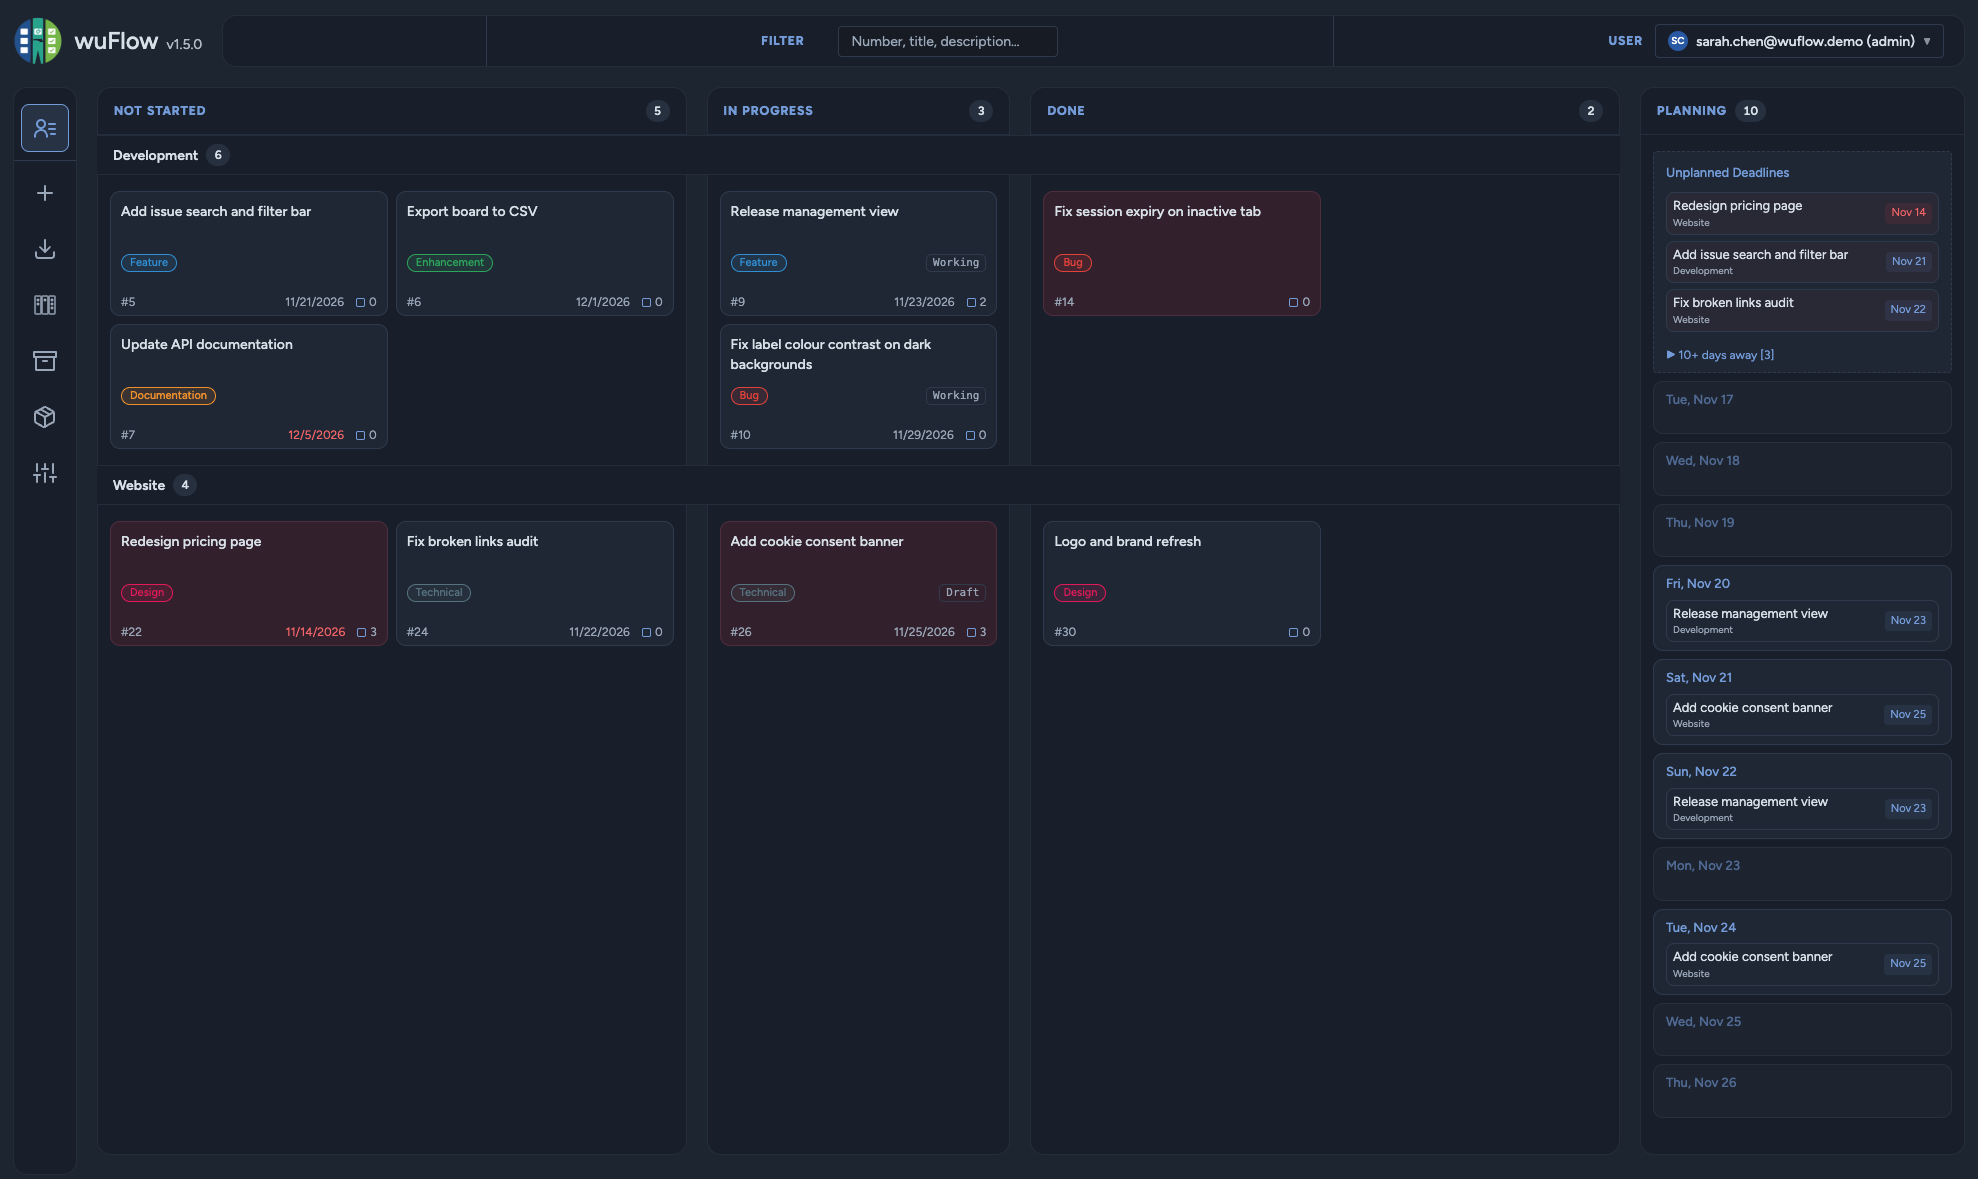
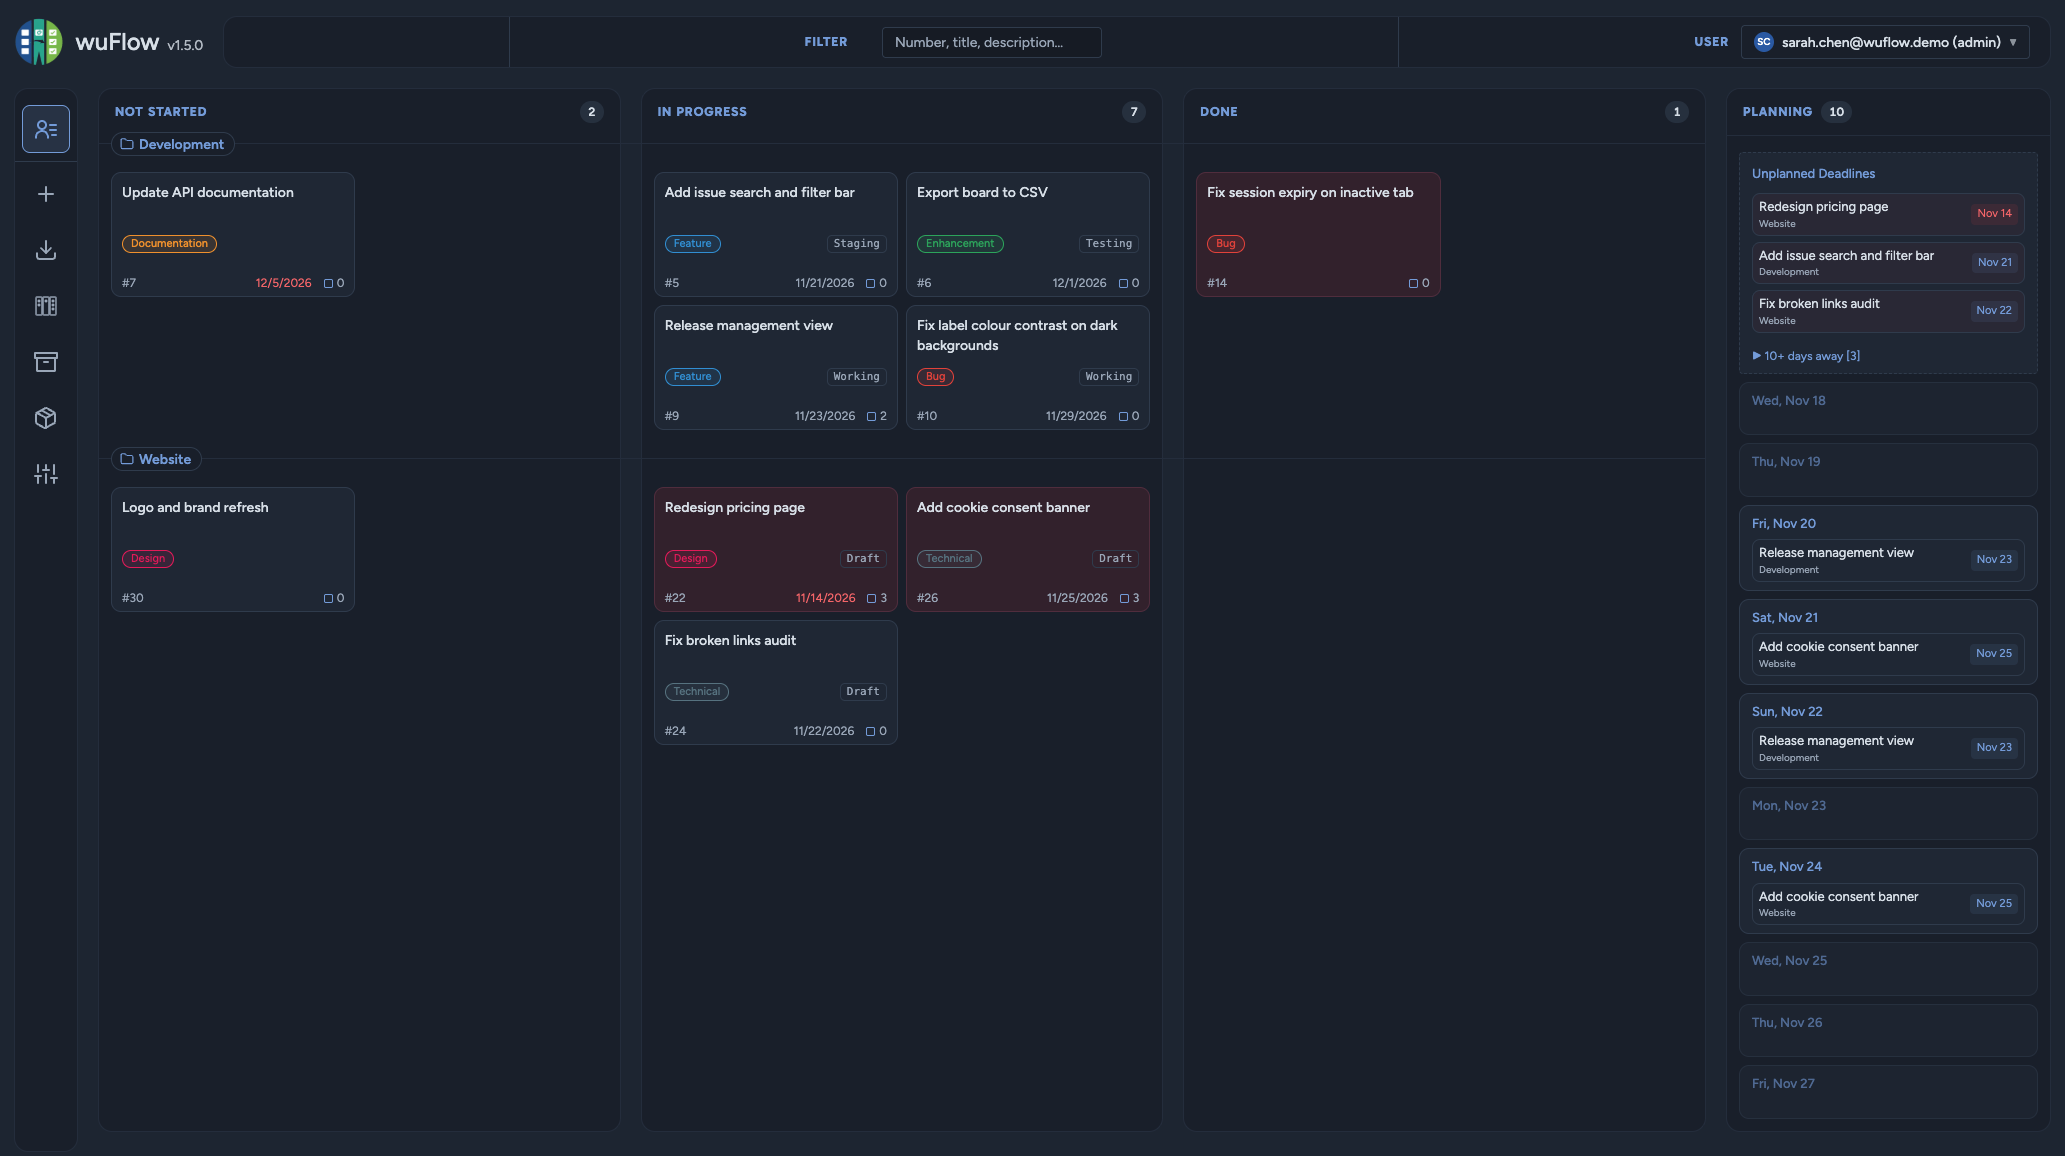
feat(my-work): Added priority filter

diff --git a/playwright/my_work.spec.ts b/playwright/my_work.spec.ts
@@ -48,7 +48,7 @@ test.describe('My Work', () => {
 
     const t = (name: string) => `${name} ${suffix}`;
     await createIssueViaAPI(request, DEFAULT_PROJECT_ID, t('A todo'), { status: 'Todo', assignee_id: me.id });
-    await createIssueViaAPI(request, DEFAULT_PROJECT_ID, t('A working'), { status: 'Stage2', assignee_id: me.id });
+    await createIssueViaAPI(request, DEFAULT_PROJECT_ID, t('A working'), { status: 'Stage2', assignee_id: me.id, priority: 'High' });
     await createIssueViaAPI(request, DEFAULT_PROJECT_ID, t('A other'), { status: 'Todo', assignee_id: other.id });
     await createIssueViaAPI(request, DEFAULT_PROJECT_ID, t('A open'), { status: 'Open', assignee_id: me.id });
     const bTestingId = await createIssueViaAPI(request, projectBId, t('B testing'), {
@@ -62,10 +62,11 @@ test.describe('My Work', () => {
     await expect(page.locator('#project-selector-text')).not.toHaveText(projectB);
 
     await navigateTo(page, 'my-work');
-    // Toolbar: only the issue search, no project selector and no project filters.
+    // Toolbar: only the priority filter and the issue search, no project selector and no project filters.
     await expect(page.locator('#project-selector-container')).toBeHidden();
+    await expect(page.locator('#priority-filter-wrapper')).toBeVisible();
     await expect(page.locator('#search-filter-wrapper')).toBeVisible();
-    for (const id of ['#label-filter-wrapper', '#priority-filter-wrapper', '#user-filter-wrapper', '#release-filter-wrapper', '#release-search-wrapper']) {
+    for (const id of ['#label-filter-wrapper', '#user-filter-wrapper', '#release-filter-wrapper', '#release-search-wrapper']) {
       await expect(page.locator(id)).toBeHidden();
     }
 
@@ -92,6 +93,18 @@ test.describe('My Work', () => {
     await expect(page.locator('#my-work-grid .card')).toHaveCount(1);
     await expect(card(page, 'done', t('B done'))).toBeVisible();
     await expect(page.locator('#my-work-grid .column-header[data-category="done"] .count')).toHaveText(/^1\/\d+$/);
+    await page.fill('#search-input', '');
+    await expect(card(page, 'notStarted', t('A todo'))).toBeVisible();
+
+    // The priority filter, combined with the search for this test's issues: only my High issue,
+    // the lane of project B disappears.
+    await page.fill('#search-input', suffix);
+    await page.click('#priority-filter-btn');
+    await page.click('#priority-filter-options .custom-option:has-text("High")');
+    await expect(page.locator('#my-work-grid .card')).toHaveCount(1);
+    await expect(card(page, 'inProgress', t('A working'))).toBeVisible();
+    await expect(laneNames.filter({ hasText: projectB })).toHaveCount(0);
+    await page.click('#priority-filter-btn .toolbar-icon-clear');
     await page.fill('#search-input', '');
     await expect(card(page, 'notStarted', t('A todo'))).toBeVisible();
 

diff --git a/static/js/tests/my-work.test.ts b/static/js/tests/my-work.test.ts
@@ -139,9 +139,10 @@ describe('My Work view', () => {
     expect(document.querySelectorAll('.my-work-lane-separator')).toHaveLength(0);
   });
 
-  describe('search', () => {
+  describe('filters', () => {
     afterEach(() => {
       state.filter.search = '';
+      state.filter.priority = null;
       state.filter.labelId = null;
     });
 
@@ -157,6 +158,31 @@ describe('My Work view', () => {
       expect(byId('my-work-planning-count').textContent).toBe('1/1');
     });
 
+    it('filters cards, lanes and planning by priority and shows "shown/total"', () => {
+      mergeMyIssue(makeIssue({ ...ISSUES[1], priority: 'High' }));
+      state.filter.priority = 'High';
+      renderMyWork();
+
+      expect(cardTitles(byId('my-work-grid'))).toEqual(['Beta testing']);
+      expect([...document.querySelectorAll('.my-work-lane-name')].map(l => l.textContent)).toEqual(['Beta']);
+      expect(document.querySelectorAll('.my-work-lane-separator')).toHaveLength(0);
+      const counts = [...document.querySelectorAll('#my-work-grid .column-header .count')].map(c => c.textContent);
+      expect(counts).toEqual(['0/1', '1/2', '0/1']);
+      // The only planned issue (Alpha working) has normal priority.
+      expect(byId('my-work-planning-list').querySelector('.planning-item')).toBeNull();
+      expect(byId('my-work-planning-count').textContent).toBe('0/1');
+    });
+
+    it('combines the priority filter with the search', () => {
+      mergeMyIssue(makeIssue({ ...ISSUES[1], priority: 'High' }));
+      mergeMyIssue(makeIssue({ ...ISSUES[2], priority: 'High' }));
+      state.filter.priority = 'High'; // leaves out Beta todo
+      state.filter.search = 'beta'; // leaves out Alpha working
+      renderMyWork();
+
+      expect(cardTitles(byId('my-work-grid'))).toEqual(['Beta testing']);
+    });
+
     it('ignores the project filters of the toolbar', () => {
       state.filter.labelId = 99; // a label filter set on a project board
       renderMyWork();
@@ -169,7 +195,15 @@ describe('My Work view', () => {
       state.filter.search = 'no such text';
       renderMyWork();
 
-      expect(bySelector(document, '.my-work-empty').textContent).toBe('No issues match the search.');
+      expect(bySelector(document, '.my-work-empty').textContent).toBe('No issues match the filters.');
+    });
+
+    it('says so when no issue has the chosen priority', () => {
+      state.filter.priority = 'High';
+      renderMyWork();
+
+      expect(bySelector(document, '.my-work-empty').textContent).toBe('No issues match the filters.');
+      expect(document.querySelectorAll('#my-work-grid .column-header .count')[0].textContent).toBe('0/1');
     });
   });
 

diff --git a/static/js/app.ts b/static/js/app.ts
@@ -272,7 +272,7 @@ function setupEventListeners() {
 
 // filters: which filters the toolbar shows while hideFilter is false (see applyFilterVisibility).
 const VIEW_CONFIG = {
-    'my-work':         { el: myWorkView,           nav: navMyWork,          hideSidebar: true,  hideFilter: false, hideProjectSelector: true,  systemSettings: false, filters: 'search',   onEnter: () => refreshApp() },
+    'my-work':         { el: myWorkView,           nav: navMyWork,          hideSidebar: true,  hideFilter: false, hideProjectSelector: true,  systemSettings: false, filters: 'my-work',  onEnter: () => refreshApp() },
     'board':           { el: boardView,           nav: navBoard,           hideSidebar: false, hideFilter: false, hideProjectSelector: false, systemSettings: false, filters: 'issues',   onEnter: () => refreshApp() },
     'backlog':         { el: backlogView,          nav: navBacklog,         hideSidebar: true,  hideFilter: false, hideProjectSelector: false, systemSettings: false, filters: 'issues',   onEnter: () => refreshApp() },
     'archive':         { el: archiveView,          nav: navArchive,         hideSidebar: true,  hideFilter: false, hideProjectSelector: false, systemSettings: false, filters: 'issues',   onEnter: () => refreshApp() },
@@ -282,13 +282,13 @@ const VIEW_CONFIG = {
 } as const;
 
 // issues: label, priority, user, release filter and issue search (project views);
-// releases: owner filter and release search; search: only the issue search (My Work).
-function applyFilterVisibility(filters: 'issues' | 'releases' | 'search') {
+// releases: owner filter and release search; my-work: priority filter and issue search.
+function applyFilterVisibility(filters: 'issues' | 'releases' | 'my-work') {
     const issueFilters = filters === 'issues';
     byId('label-filter-wrapper').classList.toggle('hidden', !issueFilters);
-    byId('priority-filter-wrapper').classList.toggle('hidden', !issueFilters);
+    byId('priority-filter-wrapper').classList.toggle('hidden', filters === 'releases');
     byId('release-filter-wrapper').classList.toggle('hidden', !issueFilters);
-    byId('user-filter-wrapper').classList.toggle('hidden', filters === 'search');
+    byId('user-filter-wrapper').classList.toggle('hidden', filters === 'my-work');
     byId('search-filter-wrapper').classList.toggle('hidden', filters === 'releases');
     byId('release-search-wrapper').classList.toggle('hidden', filters !== 'releases');
 }

diff --git a/static/js/components/my-work.ts b/static/js/components/my-work.ts
@@ -119,19 +119,20 @@ function categoryCount(lanes: MyWorkLane[], category: MyWorkCategory) {
 export function renderMyWork() {
   const grid = byId('my-work-grid');
   grid.innerHTML = '';
-  // Only the issue search of the toolbar applies: the other filters belong to the selected project.
-  const searching = state.filter.search.trim() !== '';
-  const shownIssues = filterIssues(myIssues, { search: state.filter.search });
+  // Only the issue search and the priority filter apply: the other filters belong to the selected project.
+  const { search, priority } = state.filter;
+  const filtering = search.trim() !== '' || priority !== null;
+  const shownIssues = filterIssues(myIssues, { search, priority });
   const lanes = buildLanes(shownIssues);
-  const allLanes = searching ? buildLanes(myIssues) : lanes;
+  const allLanes = filtering ? buildLanes(myIssues) : lanes;
 
   // One sticky head for the three category headers, so its lower edge is one line across all bands.
   const head = document.createElement('div');
   head.className = 'my-work-head';
   for (const category of MY_WORK_CATEGORIES) {
     const shown = categoryCount(lanes, category);
-    // Like the board: "shown/total" while the search is active.
-    head.appendChild(createCategoryHeader(category, searching ? `${shown}/${categoryCount(allLanes, category)}` : String(shown)));
+    // Like the board: "shown/total" while a filter is active.
+    head.appendChild(createCategoryHeader(category, filtering ? `${shown}/${categoryCount(allLanes, category)}` : String(shown)));
   }
   grid.appendChild(head);
 
@@ -139,7 +140,7 @@ export function renderMyWork() {
   if (lanes.length === 0) {
     const empty = document.createElement('div');
     empty.className = 'my-work-empty';
-    empty.textContent = myIssues.length > 0 ? 'No issues match the search.' : 'No active issues are assigned to you.';
+    empty.textContent = myIssues.length > 0 ? 'No issues match the filters.' : 'No active issues are assigned to you.';
     grid.appendChild(empty);
     rows++;
   }
@@ -162,5 +163,5 @@ export function renderMyWork() {
     itemSubline: createProjectSubline,
     openModal: openIssue,
   });
-  byId('my-work-planning-count').textContent = searching ? `${count}/${countPlanningEntries(myIssues)}` : String(count);
+  byId('my-work-planning-count').textContent = filtering ? `${count}/${countPlanningEntries(myIssues)}` : String(count);
 }

diff --git a/docs/frontend.md b/docs/frontend.md
@@ -85,7 +85,7 @@ All inline editors of the issue modal follow one behaviour:
 - **Reuse instead of own components**: cards come from `createCardElement` with `CardOptions` (`showAssignee`, `showRelease`, `stageName`, `draggable`), the planning from `buildPlanningList` in `planning.ts` with `readOnly` and `itemSubline`. Without these options both produce the Board's card and planning, so My Work changes nothing on the Board.
 - **Layout**: one grid in `styles/pages/my-work.css`. Each of the three bands is a fixed track (padding, border, card gap) plus a `2fr` track for its two card lanes, so all six card lanes are equally wide. The sizes come from the Board's custom properties (`--board-column-*`, `--card-gap`). The category headers sit in one sticky subgrid row (`.my-work-head`), whose lower edge is the line above the first lane. The project name is a pill (`.my-work-lane-pill`) positioned on the line above its lane; the cell padding is derived from the pill height (`--my-work-pill-height`), so it never touches the cards.
 - **No IDs or Board classes**: the My Work planning list renders without element IDs, and the grid does not use `.column` or `[data-status]`, because the Board queries these document-wide.
-- **Toolbar**: `filters: 'search'` in `VIEW_CONFIG` (`app.ts`). My Work applies only `filter.search` via `filterIssues`, the other filters belong to the selected project.
+- **Toolbar**: `filters: 'my-work'` in `VIEW_CONFIG` (`app.ts`). My Work applies only `filter.search` and `filter.priority` via `filterIssues`, the other filters belong to the selected project.
 - **Data**: the list lives in the module, not in `state.issues` (the selected project's issues). `refreshApp()` reloads it while the view is visible, and `rerenderAfterIssueChange` merges edits from the issue dialog.
 
 ---

diff --git a/docs/usage-guide.md b/docs/usage-guide.md
@@ -157,7 +157,7 @@ My Work shows all active issues assigned to you, from **all projects**, in one p
 - **Order**: in Not Started, the most urgent issues come first: overdue issues (issue or task deadline), then high priority, then issues planned for today, the next two days or a past day, then the rest. In In Progress, the issues closest to Done come first (the board read from right to left: finish work before starting new work), and within the same column the most urgent first. In Done, the most recently changed issues come first.
 - **Editing**: click a card or a planning item to open the issue. Its fields offer the options of the issue's own project, and changes are saved to that project. My Work updates when you close the issue. Cards cannot be dragged here: change the status in the issue, or use the project's board.
 - **Planning**: the planning on the right works like the planning sidebar of the board, but shows your issues of all projects, each with its project name. It is read-only: plan issues in the issue itself or on the project's board.
-- **Filter**: the top bar shows only the text filter. It works like on the board (issue number, title and description) and filters the cards and the planning. The other filters belong to a single project and are not offered here.
+- **Filter**: the top bar shows the priority filter and the text filter. Both work like on the board (the text filter checks issue number, title and description) and filter the cards and the planning. Projects without a matching issue disappear. The other filters belong to a single project and are not offered here.
 
 ## The Backlog View
 
